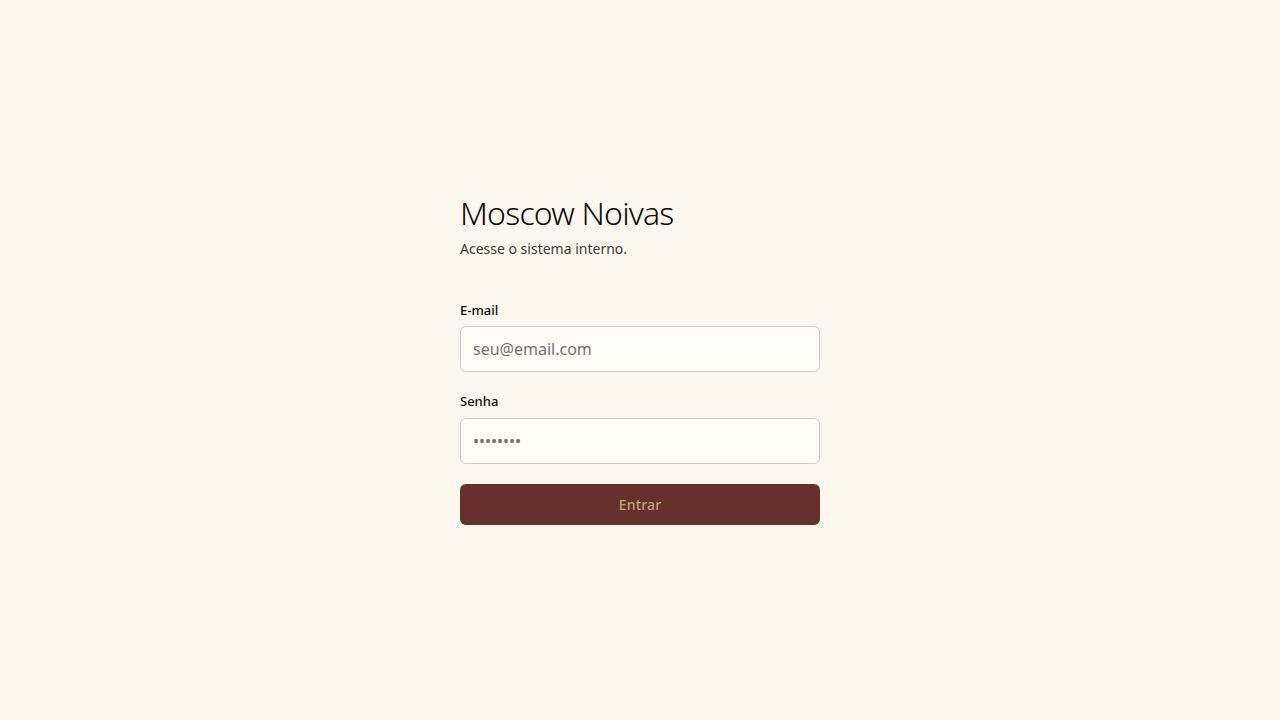
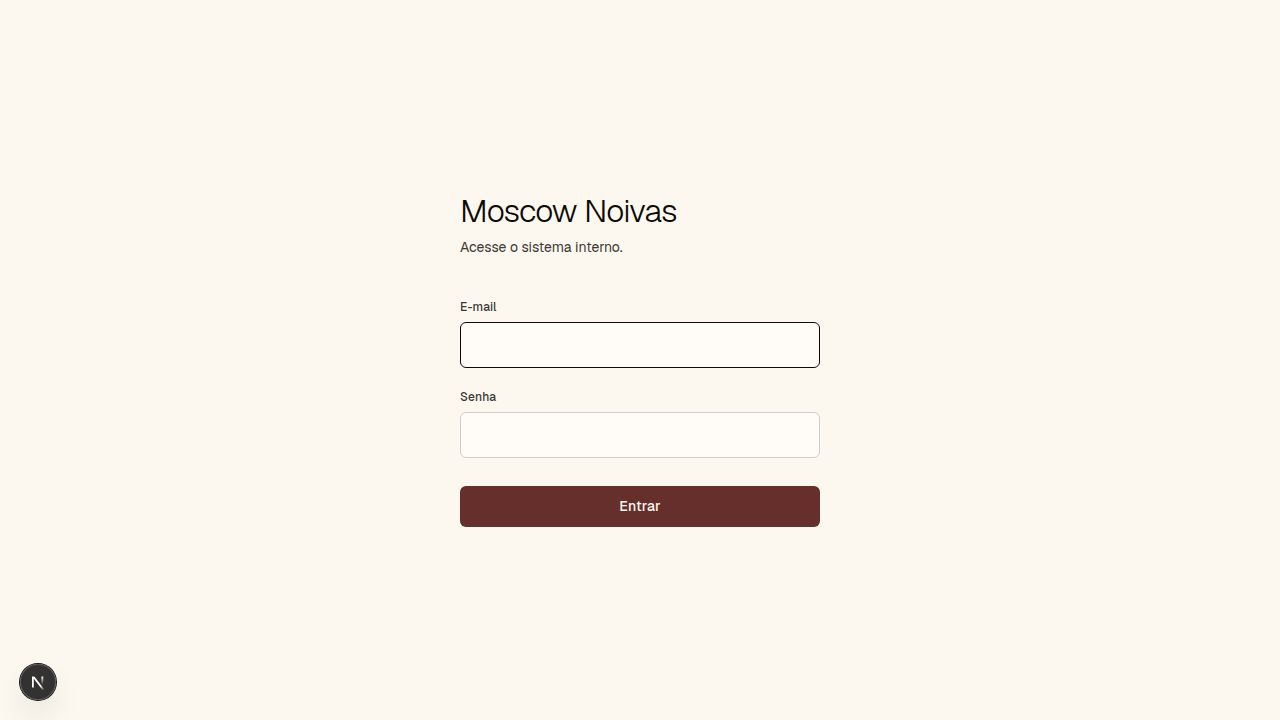
Fix Moscow Noivas web artifact failing to run
Request: "The Moscow Noivas artifact failed to run, debug and fix it."
User confirmed the artifact should run the Next.js app in root `app/`
(the Vite package `artifacts/moscow-noivas` is retired).

Root causes & fixes:
- Working-tree wipe: 1432 tracked files (all of artifacts/, incl.
  api-server) were deleted from disk but present in HEAD. Destructive git
  is blocked for the main agent, so recovered via read-only
  `git archive HEAD artifacts/` + `cp -rn` (preserves modified/untracked
  files). rsync unavailable.
- Generated the Next.js Prisma client (`cd app && npx prisma generate`).
- Updated artifacts/moscow-noivas/.replit-artifact/artifact.toml dev run
  command to launch the Next.js app:
  `bash -c 'cd /home/runner/workspace/app && npm run dev -- -p 25188 -H 0.0.0.0'`
  (absolute path: the artifact workflow cwd is not the repo root).
- Killed an orphaned `next dev` process holding port 25188 (EADDRINUSE);
  fuser/lsof unavailable, used ps + kill.

Result: web workflow RUNNING (Next.js 16.2.6), login page renders, API
server running on 8080. Verified via screenshot. Code review: PASS for dev.

Known gap (out of scope, flagged to user + follow-up): artifact.toml
[services.production] still builds/serves the retired Vite static app —
must be switched to a Next.js build before deploy.

diff --git a/.agents/memory/moscow-noivas-app-layout.md b/.agents/memory/moscow-noivas-app-layout.md
@@ -1,0 +1,21 @@
+---
+name: Moscow Noivas app layout
+description: Which of the two Moscow Noivas apps actually runs, and how the web artifact is wired.
+---
+
+# Moscow Noivas: which app is live
+
+There are TWO complete apps in this repo:
+- **Next.js app at repo root `app/`** (`next dev`, package `moscow-noivas@0.1.0`, Prisma client output `app/src/generated/prisma`). **This is the live app the user wants.**
+- Vite + React app at `artifacts/moscow-noivas` + Express `artifacts/api-server` — the migration target, now **retired**.
+
+The web artifact (`artifacts/moscow-noivas/.replit-artifact/artifact.toml`) dev command runs the Next.js app via an absolute path:
+`bash -c 'cd /home/runner/workspace/app && npm run dev -- -p 25188 -H 0.0.0.0'`
+(absolute path because the artifact workflow's cwd is NOT the repo root — a relative `cd app` fails).
+
+**Why:** User explicitly chose the Next.js app ("Vite retired") on 2026-06-27. This contradicts `replit.md`, which still documents the Vite+Express architecture — treat replit.md as stale on this point until updated.
+
+**How to apply:**
+- After cloning/recovery, run `cd app && npx prisma generate` (client is gitignored) or the app crashes with a missing Prisma client.
+- The artifact's `production` config still builds the Vite app (static) — that is INCONSISTENT with running Next.js. If the user wants to deploy, production must be switched to a Next.js build/serve.
+- `app/` is currently untracked in git (not committed).

diff --git a/.agents/memory/git-recovery-main-agent.md b/.agents/memory/git-recovery-main-agent.md
@@ -1,0 +1,20 @@
+---
+name: Git recovery as main agent
+description: How to recover deleted working-tree files when destructive git is blocked.
+---
+
+# Recovering a wiped working tree (main agent)
+
+The sandbox **blocks destructive git for the main agent**: `git restore`, `git checkout`, `git reset`, `git clean`, `git rm`, `git commit`, etc. all return "Destructive git operations are not allowed in the main agent."
+
+To restore files deleted from the working tree but still present in a commit, use **read-only** git plus shell copy:
+```
+git archive HEAD <path> -o /tmp/restore.tar
+mkdir -p /tmp/restore && tar -xf /tmp/restore.tar -C /tmp/restore
+cp -rn /tmp/restore/<path>/. <path>/   # -n = no-clobber: preserves modified/untracked files
+```
+`rsync` is NOT installed; use `cp -rn`. `git archive` is allowed (read-only).
+
+**Why:** A full working-tree wipe (1432 files deleted on disk, all present in HEAD) could not be fixed with `git restore` due to the block. `cp -n` only re-creates missing files, so locally-modified files (e.g. an edited `artifact.toml`) and untracked dirs are preserved.
+
+**Port cleanup:** `fuser` and `lsof` are NOT installed. Find port-holding orphans via `ps aux | grep` (or scan `/proc/<pid>/cmdline`) and `kill -9 <pids>`, then restart the workflow so it owns the process. Orphaned dev servers (e.g. a manually-started `next dev`) cause `EADDRINUSE` when the workflow tries to bind.

diff --git a/.agents/memory/MEMORY.md b/.agents/memory/MEMORY.md
@@ -1,1 +1,3 @@
-- [Moscow Noivas migration](moscow-noivas-migration.md) — Vite+React+Wouter+Express migration from Next.js; key gotchas and patterns
+- [Moscow Noivas app layout](moscow-noivas-app-layout.md) — the live app is the Next.js app in root `app/`; the Vite pkg `artifacts/moscow-noivas` was retired (contradicts replit.md).
+- [Git recovery as main agent](git-recovery-main-agent.md) — destructive git (restore/checkout/reset) is BLOCKED for main agent; recover deleted files with `git archive HEAD <path> | tar` + `cp -n`.
+- [Moscow Noivas migration](moscow-noivas-migration.md) — decisions/gotchas for the **retired** Vite+Express migration (api-server seed, design tokens); stale for the live Next.js app.
